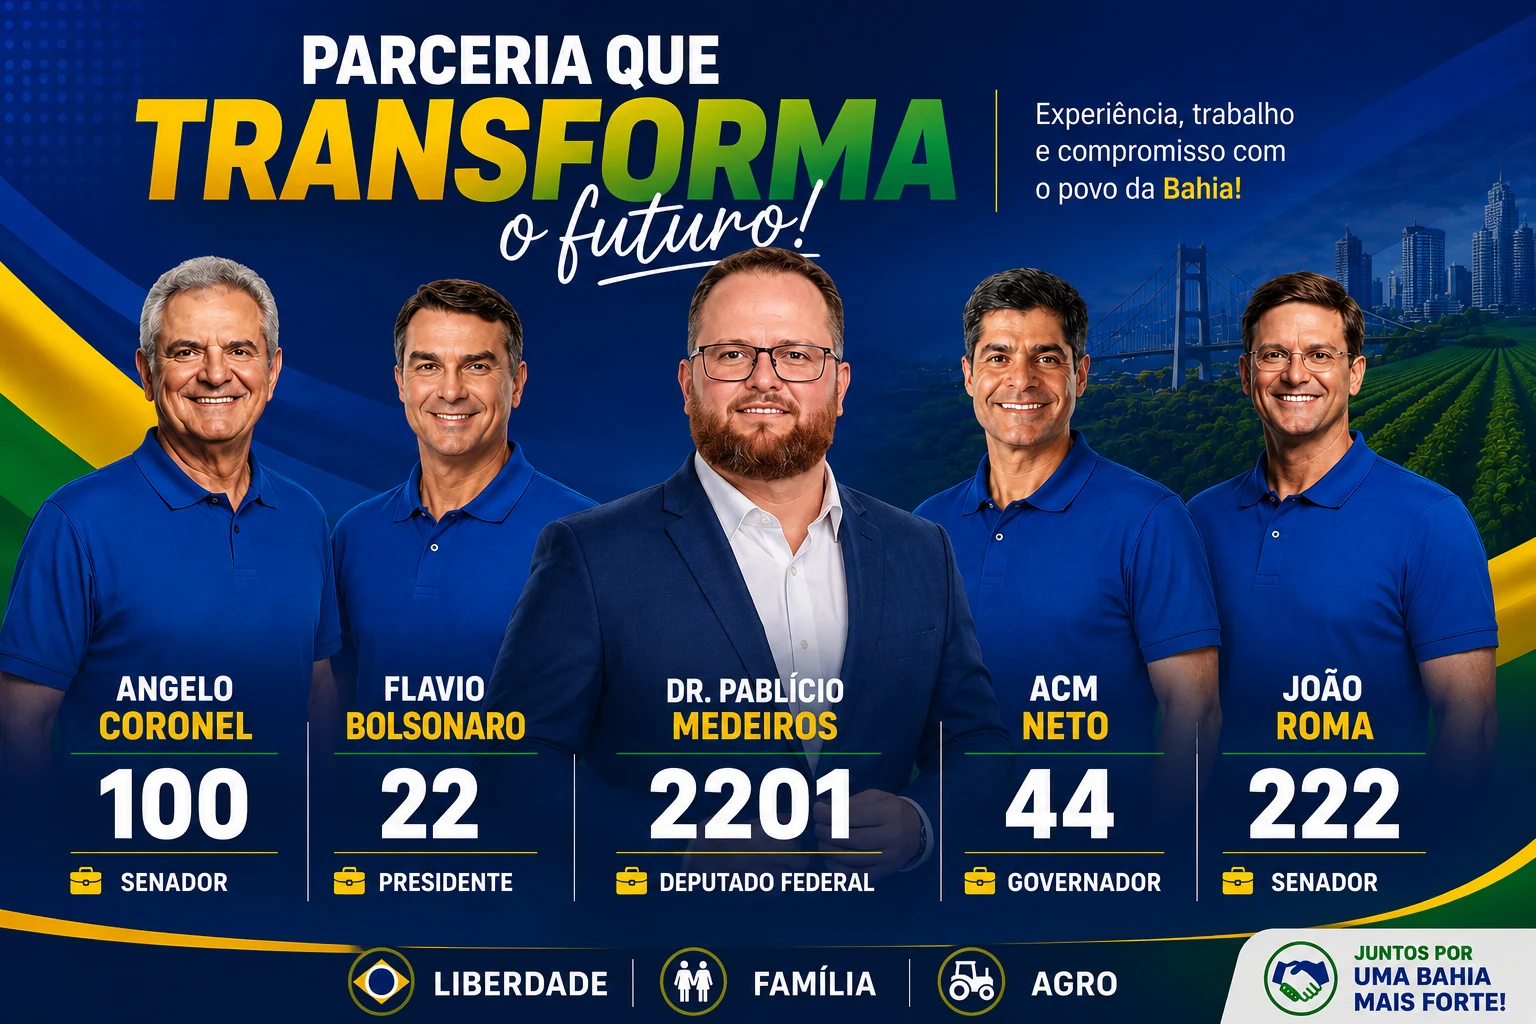
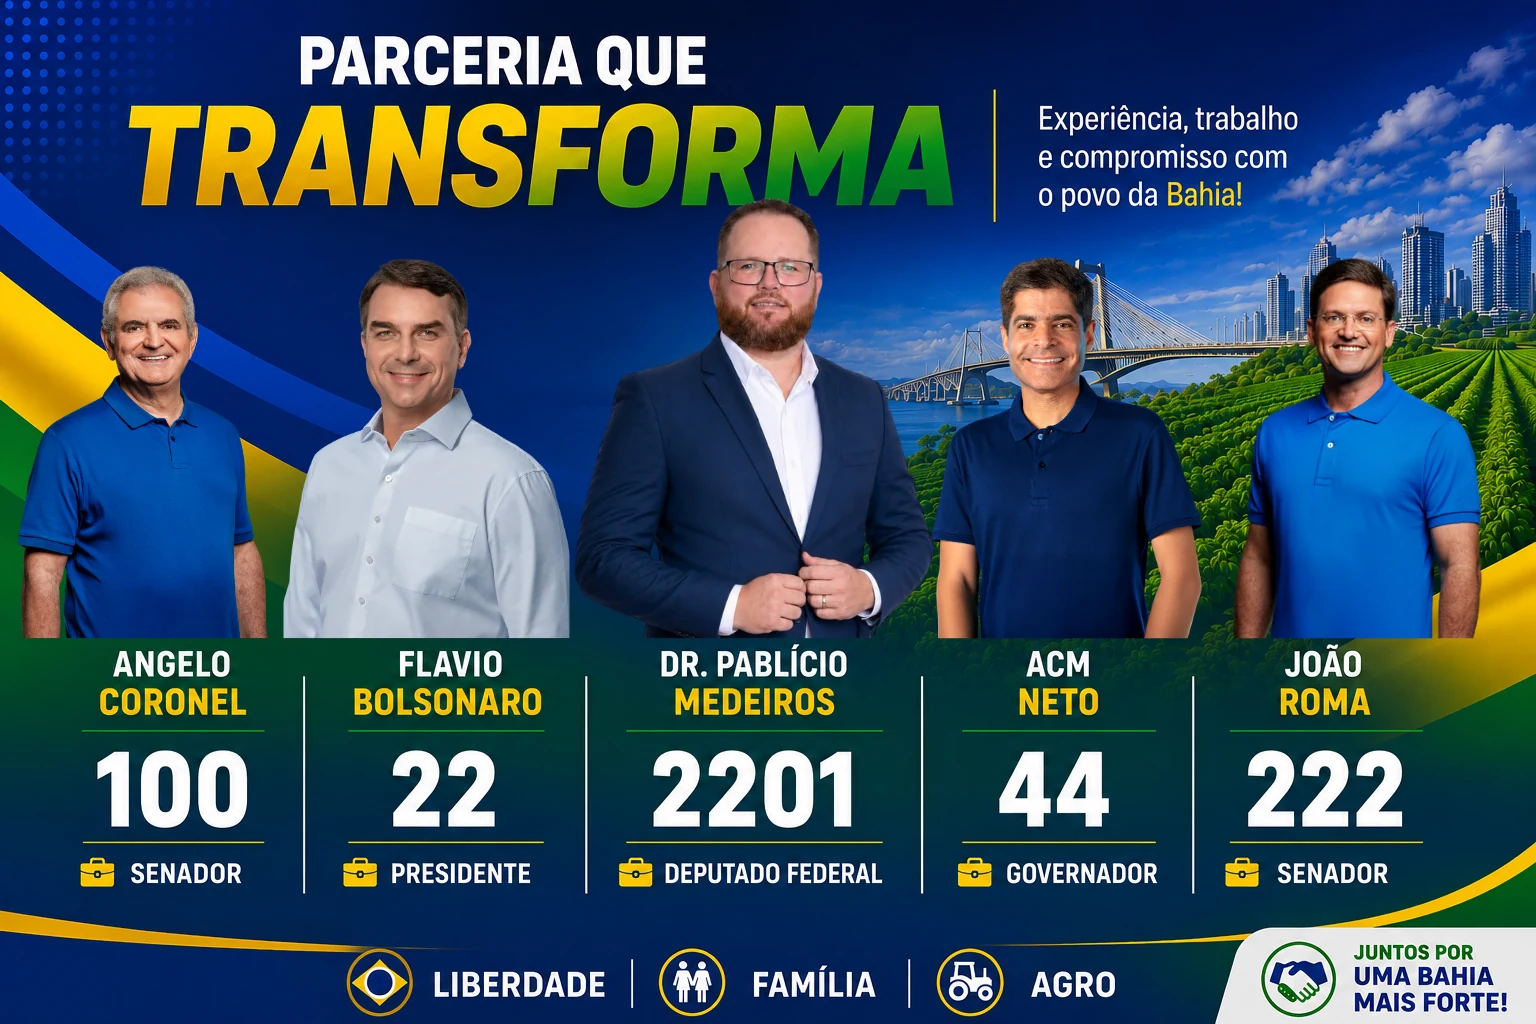
feat: redesign Fase 1 (Pablicio Presente) - nova nav, Hero reconstruido e paleta com tokens
- Header: navegacao por ancoras + menu mobile hamburger
- Hero: nova composicao e copy, painel verde solido atras da foto (corrige corte de cor),
  faixa "efeito bandeira" com verde predominante e azul/amarelo de destaque
- Footer: migrado para tokens de cor
- index.css: tokens de marca via @theme (Tailwind v4)
- content.ts: novos campos de copy do Hero
- Chapa: atualiza arte da parceria politica com nova versao fornecida pela campanha

diff --git a/src/components/Hero.tsx b/src/components/Hero.tsx
@@ -1,5 +1,4 @@
-import { ChevronDown } from "lucide-react";
-import { candidato, bio } from "../data/content";
+import { candidato, hero } from "../data/content";
 import { useLeadModal } from "../context/LeadModalContext";
 import fotoPablicio from "../assets/pablicio-cutout.webp";
 
@@ -8,22 +7,27 @@ export default function Hero() {
   const palavrasBandeira = candidato.bandeira.replace(" e ", ", ").split(", ");
 
   return (
-    <section className="relative bg-gradient-to-br from-[#02732a] via-[#025c22] to-[#022873] text-white pt-20 sm:pt-28 md:pt-32 pb-10 sm:pb-16 md:pb-20 overflow-hidden">
-      <div className="pointer-events-none absolute -top-24 -right-16 w-64 h-64 sm:w-96 sm:h-96 rounded-full bg-[#0339a6]/30 blur-3xl" />
-      <div className="pointer-events-none absolute bottom-0 -left-16 w-56 h-56 sm:w-80 sm:h-80 rounded-full bg-[#f2cb05]/20 blur-3xl" />
-      <div className="pointer-events-none absolute inset-0 bg-[radial-gradient(circle_at_1px_1px,rgba(255,255,255,0.06)_1px,transparent_0)] [background-size:28px_28px]" />
+    <section className="relative bg-gradient-to-br from-brand-green-700 via-brand-blue-700 to-brand-blue-900 text-white pt-20 sm:pt-28 md:pt-32 pb-10 sm:pb-16 md:pb-20 overflow-hidden">
+      <div className="pointer-events-none absolute -top-24 -right-16 w-64 h-64 sm:w-96 sm:h-96 rounded-full bg-brand-green-500/20 blur-3xl" />
 
       <div className="relative max-w-6xl mx-auto px-4 sm:px-5 grid md:grid-cols-[1.1fr_0.9fr] md:grid-rows-[auto_auto] gap-6 sm:gap-10 md:gap-x-12 items-center">
         <div className="order-1 md:order-1 md:col-start-1 md:row-start-1 md:self-end text-center md:text-left">
-          <p className="inline-flex items-center gap-2 uppercase tracking-widest text-[#f2cb05] font-semibold text-[11px] sm:text-sm mb-3 sm:mb-4 rounded-full border border-[#f2cb05]/30 bg-[#f2cb05]/10 px-3.5 py-1.5">
-            {candidato.cargo} · {candidato.partido} ({candidato.partidoSigla})
+          <p className="uppercase tracking-[0.2em] text-white/60 font-semibold text-[11px] sm:text-xs mb-2.5 sm:mb-3">
+            {candidato.nome}
           </p>
-          <h1 className="font-display font-extrabold text-[2rem] leading-[1.08] sm:text-5xl md:text-6xl sm:leading-[1.05] bg-gradient-to-r from-white via-white to-[#f2cb05]/90 bg-clip-text text-transparent">
-            {candidato.nome.toUpperCase()}
+          <p className="inline-flex items-center gap-2 uppercase tracking-widest text-brand-yellow-500 font-semibold text-[11px] sm:text-sm mb-3 sm:mb-4 rounded-full border border-brand-yellow-500/30 bg-brand-yellow-500/10 px-3.5 py-1.5">
+            {candidato.cargo} · {candidato.numero}
+          </p>
+          <h1 className="font-display font-extrabold text-[2rem] leading-[1.08] sm:text-5xl md:text-6xl sm:leading-[1.05] text-white">
+            {hero.headline}
           </h1>
         </div>
 
-        <div className="order-2 md:order-2 md:col-start-2 md:row-start-1 md:row-span-2 flex flex-col items-center">
+        <div className="order-2 md:order-2 md:col-start-2 md:row-start-1 md:row-span-2 relative flex flex-col items-center">
+          {/* painel verde sólido atrás de toda a figura — evita o corte de cor do fundo
+              da seção passando bem no meio da foto, independente do layout (mobile/desktop) */}
+          <div className="absolute inset-0 -mx-4 bg-[radial-gradient(ellipse_65%_78%_at_50%_40%,var(--color-brand-green-500)_0%,var(--color-brand-green-700)_50%,transparent_80%)]" />
+
           <div className="relative flex justify-center w-full">
             {/* lema em marca d'água atrás da figura, preenchendo o fundo vazio */}
             <div className="absolute inset-0 flex flex-col items-center justify-evenly py-4 pointer-events-none select-none">
@@ -36,21 +40,19 @@ export default function Hero() {
                 </span>
               ))}
             </div>
-            {/* glow colorido atrás da figura, no lugar da antiga caixa branca */}
-            <div className="absolute top-4 w-48 h-48 sm:w-72 sm:h-72 md:w-80 md:h-80 rounded-full bg-gradient-to-br from-[#f2cb05] via-[#03a63c] to-[#0339a6] opacity-50 blur-3xl" />
-            {/* sombra de "chão" sob os pés */}
-            <div className="absolute bottom-2 sm:bottom-4 w-32 sm:w-48 h-5 sm:h-7 bg-black/40 rounded-[50%] blur-lg" />
+            {/* sombra de "chão" sob os pés — reforçada para integrar melhor a figura ao fundo */}
+            <div className="absolute bottom-1 sm:bottom-3 w-36 sm:w-52 h-6 sm:h-8 bg-black/50 rounded-[50%] blur-xl" />
             <img
               src={fotoPablicio}
               alt={candidato.nome}
               width={577}
               height={786}
               fetchPriority="high"
-              className="relative w-48 sm:w-72 md:w-[22rem] h-auto object-contain drop-shadow-[0_25px_30px_rgba(0,0,0,0.45)]"
+              className="relative w-48 sm:w-72 md:w-[22rem] h-auto object-contain drop-shadow-[0_20px_18px_rgba(0,0,0,0.35)]"
             />
           </div>
           <div className="mt-1 sm:mt-2 text-center">
-            <div className="font-display font-extrabold text-4xl sm:text-5xl md:text-6xl text-[#f2cb05] drop-shadow-sm">
+            <div className="font-display font-extrabold text-4xl sm:text-5xl md:text-6xl text-brand-yellow-500 drop-shadow-sm">
               {candidato.numero}
             </div>
             <p className="text-white/70 text-xs sm:text-sm mt-1 tracking-wide">
@@ -60,36 +62,32 @@ export default function Hero() {
         </div>
 
         <div className="order-3 md:order-3 md:col-start-1 md:row-start-2 md:self-start text-center md:text-left">
-          <p className="text-base sm:text-xl font-semibold mb-2.5 sm:mb-3 text-white/95">
-            {bio.fraseAbertura}
-          </p>
-          <p className="text-sm sm:text-base text-white/75 mb-6 sm:mb-9 max-w-xl mx-auto md:mx-0">
-            {bio.aberturaTexto}
+          <p className="text-base sm:text-xl font-semibold mb-6 sm:mb-9 text-white/90 max-w-xl mx-auto md:mx-0">
+            {hero.apoio}
           </p>
 
           <div className="flex flex-col sm:flex-row gap-3 sm:gap-4 items-center">
+            <a
+              href="#propostas"
+              className="w-full sm:w-auto text-center bg-brand-yellow-500 text-brand-blue-900 font-display font-bold px-7 py-3.5 rounded-full hover:brightness-95 active:scale-[0.98] sm:hover:scale-[1.02] transition shadow-lg shadow-black/20"
+            >
+              {hero.ctaPrimario}
+            </a>
             <button
               onClick={openModal}
-              className="w-full sm:w-auto bg-[#f2cb05] text-[#022873] font-display font-bold px-7 py-3.5 rounded-full hover:brightness-95 active:scale-[0.98] sm:hover:scale-[1.02] transition shadow-lg shadow-black/20"
+              className="w-full sm:w-auto text-center border-2 border-white/40 text-white font-display font-bold px-7 py-3 rounded-full hover:bg-white/10 active:scale-[0.98] transition"
             >
-              Vote {candidato.numero}
+              {hero.ctaSecundario}
             </button>
-            <a
-              href="#video"
-              className="inline-flex items-center gap-1.5 text-white/90 font-semibold underline underline-offset-4 decoration-[#03a63c] hover:text-[#f2cb05] transition"
-            >
-              Veja o vídeo
-              <ChevronDown size={16} />
-            </a>
           </div>
         </div>
       </div>
 
       <div className="absolute inset-x-0 bottom-0 h-1.5 flex">
-        <span className="flex-1 bg-[#f2cb05]" />
-        <span className="flex-1 bg-[#03a63c]" />
-        <span className="flex-1 bg-[#02732a]" />
-        <span className="flex-1 bg-[#0339a6]" />
+        <span className="flex-[2] bg-brand-green-700" />
+        <span className="flex-[2] bg-brand-green-500" />
+        <span className="flex-1 bg-brand-blue-700" />
+        <span className="flex-1 bg-brand-yellow-500" />
       </div>
     </section>
   );

diff --git a/src/components/Header.tsx b/src/components/Header.tsx
@@ -1,31 +1,107 @@
+import { useState } from "react";
+import { Menu, X } from "lucide-react";
 import { candidato } from "../data/content";
 import { useLeadModal } from "../context/LeadModalContext";
 
+const LINKS = [
+  { label: "Início", href: "#" },
+  { label: "Sobre", href: "#sobre" },
+  { label: "Presença", href: "#presenca" },
+  { label: "Propostas", href: "#propostas" },
+  { label: "Participação", href: "#participar" },
+];
+
 export default function Header() {
   const { openModal } = useLeadModal();
+  const [menuAberto, setMenuAberto] = useState(false);
+
+  function aoClicarLink(e: React.MouseEvent<HTMLAnchorElement>, href: string) {
+    setMenuAberto(false);
+    if (href === "#") {
+      e.preventDefault();
+      window.scrollTo({ top: 0, behavior: "smooth" });
+    }
+  }
 
   return (
-    <header className="fixed top-0 left-0 right-0 z-50 bg-[#022873]/90 backdrop-blur-md border-b border-white/10">
+    <header className="fixed top-0 left-0 right-0 z-50 bg-brand-blue-900/90 backdrop-blur-md border-b border-white/10">
       <div className="h-[3px] flex">
-        <span className="flex-1 bg-[#f2cb05]" />
-        <span className="flex-1 bg-[#03a63c]" />
-        <span className="flex-1 bg-[#0339a6]" />
-        <span className="flex-1 bg-[#02732a]" />
+        <span className="flex-[2] bg-brand-green-700" />
+        <span className="flex-[2] bg-brand-green-500" />
+        <span className="flex-1 bg-brand-blue-700" />
+        <span className="flex-1 bg-brand-yellow-500" />
       </div>
       <div className="max-w-6xl mx-auto flex items-center justify-between gap-3 px-4 sm:px-5 py-2.5 sm:py-3 text-white">
-        <span className="font-display font-extrabold tracking-tight text-sm sm:text-lg truncate">
-          {candidato.nome.toUpperCase()}
-        </span>
-        <button
-          onClick={openModal}
-          className="shrink-0 flex items-center gap-1.5 sm:gap-2 bg-[#f2cb05] text-[#022873] font-display font-bold text-xs sm:text-sm px-3.5 sm:px-4 py-1.5 sm:py-2 rounded-full hover:brightness-95 active:scale-95 transition shadow-md shadow-black/10"
+        <a
+          href="#"
+          onClick={(e) => aoClicarLink(e, "#")}
+          className="font-display font-extrabold tracking-tight text-sm sm:text-lg truncate"
         >
-          Vote
-          <span className="bg-[#022873] text-[#f2cb05] rounded-full px-2 py-0.5 text-[11px] sm:text-xs">
+          {candidato.nome.toUpperCase()}
+        </a>
+
+        <nav className="hidden md:flex items-center gap-6 text-sm font-semibold text-white/85">
+          {LINKS.map((link) => (
+            <a
+              key={link.label}
+              href={link.href}
+              onClick={(e) => aoClicarLink(e, link.href)}
+              className="hover:text-brand-yellow-500 transition"
+            >
+              {link.label}
+            </a>
+          ))}
+        </nav>
+
+        <div className="flex items-center gap-2">
+          <button
+            onClick={openModal}
+            className="hidden sm:flex shrink-0 items-center gap-1.5 sm:gap-2 bg-brand-yellow-500 text-brand-blue-900 font-display font-bold text-xs sm:text-sm px-3.5 sm:px-4 py-1.5 sm:py-2 rounded-full hover:brightness-95 active:scale-95 transition shadow-md shadow-black/10"
+          >
+            Vote
+            <span className="bg-brand-blue-900 text-brand-yellow-500 rounded-full px-2 py-0.5 text-[11px] sm:text-xs">
+              {candidato.numero}
+            </span>
+          </button>
+
+          <button
+            onClick={openModal}
+            className="sm:hidden shrink-0 bg-brand-yellow-500 text-brand-blue-900 font-display font-bold text-xs px-3 py-1.5 rounded-full active:scale-95 transition"
+          >
             {candidato.numero}
-          </span>
-        </button>
+          </button>
+
+          <button
+            onClick={() => setMenuAberto((v) => !v)}
+            aria-label={menuAberto ? "Fechar menu" : "Abrir menu"}
+            aria-expanded={menuAberto}
+            className="md:hidden shrink-0 w-9 h-9 flex items-center justify-center rounded-full bg-white/10 hover:bg-white/20 transition"
+          >
+            {menuAberto ? <X size={18} /> : <Menu size={18} />}
+          </button>
+        </div>
       </div>
+
+      {menuAberto && (
+        <>
+          <div
+            className="md:hidden fixed inset-0 top-[52px] bg-black/40"
+            onClick={() => setMenuAberto(false)}
+          />
+          <nav className="md:hidden relative bg-brand-blue-900 border-t border-white/10 px-4 sm:px-5 py-4 flex flex-col gap-1">
+            {LINKS.map((link) => (
+              <a
+                key={link.label}
+                href={link.href}
+                onClick={(e) => aoClicarLink(e, link.href)}
+                className="text-white/90 font-semibold py-2.5 border-b border-white/10 last:border-0"
+              >
+                {link.label}
+              </a>
+            ))}
+          </nav>
+        </>
+      )}
     </header>
   );
 }

diff --git a/src/components/Footer.tsx b/src/components/Footer.tsx
@@ -21,13 +21,12 @@ function FacebookIcon() {
 
 export default function Footer() {
   return (
-    <footer className="bg-[#0e1b2a] text-white/70 pb-8 sm:pb-10 text-sm">
+    <footer className="bg-brand-ink text-white/70 pb-8 sm:pb-10 text-sm">
       <div className="h-1 flex mb-8 sm:mb-10">
-        <span className="flex-1 bg-[#f2cb05]" />
-        <span className="flex-1 bg-[#03a63c]" />
-        <span className="flex-1 bg-[#02732a]" />
-        <span className="flex-1 bg-[#0339a6]" />
-        <span className="flex-1 bg-[#022873]" />
+        <span className="flex-[2] bg-brand-green-700" />
+        <span className="flex-[2] bg-brand-green-500" />
+        <span className="flex-1 bg-brand-blue-700" />
+        <span className="flex-1 bg-brand-yellow-500" />
       </div>
       <div className="max-w-4xl mx-auto px-4 sm:px-5 text-center space-y-3 break-words">
         <p className="font-display font-bold text-white text-base">
@@ -41,7 +40,7 @@ export default function Footer() {
             target="_blank"
             rel="noopener noreferrer"
             aria-label="Instagram"
-            className="w-9 h-9 rounded-full bg-white/5 flex items-center justify-center hover:bg-[#0339a6] hover:text-white transition"
+            className="w-9 h-9 rounded-full bg-white/5 flex items-center justify-center hover:bg-brand-blue-700 hover:text-white transition"
           >
             <InstagramIcon />
           </a>
@@ -50,7 +49,7 @@ export default function Footer() {
             target="_blank"
             rel="noopener noreferrer"
             aria-label="Facebook"
-            className="w-9 h-9 rounded-full bg-white/5 flex items-center justify-center hover:bg-[#0339a6] hover:text-white transition"
+            className="w-9 h-9 rounded-full bg-white/5 flex items-center justify-center hover:bg-brand-blue-700 hover:text-white transition"
           >
             <FacebookIcon />
           </a>
@@ -59,7 +58,7 @@ export default function Footer() {
             target="_blank"
             rel="noopener noreferrer"
             aria-label="WhatsApp"
-            className="w-9 h-9 rounded-full bg-white/5 flex items-center justify-center hover:bg-[#02732a] hover:text-white transition"
+            className="w-9 h-9 rounded-full bg-white/5 flex items-center justify-center hover:bg-brand-green-700 hover:text-white transition"
           >
             <MessageCircle size={18} />
           </a>

diff --git a/src/components/Articulacao.tsx b/src/components/Articulacao.tsx
@@ -76,7 +76,7 @@ export default function Articulacao() {
   if (galeria.length === 0) return null;
 
   return (
-    <section className="bg-[#f6f8fa] py-12 sm:py-16 md:py-24 overflow-hidden">
+    <section id="presenca" className="bg-[#f6f8fa] py-12 sm:py-16 md:py-24 overflow-hidden scroll-mt-16">
       <div className="max-w-5xl mx-auto px-4 sm:px-5">
         <p className="uppercase tracking-widest text-[#0339a6] font-semibold text-xs sm:text-sm mb-3 text-center">
           <span className="rounded-full bg-[#0339a6]/10 px-3.5 sm:px-4 py-1.5">

diff --git a/src/components/Bio.tsx b/src/components/Bio.tsx
@@ -2,7 +2,7 @@ import { bio, candidato } from "../data/content";
 
 export default function Bio() {
   return (
-    <section className="bg-[#f6f8fa] py-12 sm:py-16 md:py-24">
+    <section id="sobre" className="bg-[#f6f8fa] py-12 sm:py-16 md:py-24 scroll-mt-16">
       <div className="max-w-3xl mx-auto px-4 sm:px-5">
         <p className="uppercase tracking-widest text-[#0339a6] font-semibold text-xs sm:text-sm mb-3 sm:mb-4 text-center">
           <span className="rounded-full bg-[#0339a6]/10 px-3.5 sm:px-4 py-1.5">Quem é ele</span>

diff --git a/src/index.css b/src/index.css
@@ -1,6 +1,16 @@
 @import url("https://fonts.googleapis.com/css2?family=Archivo:wght@600;700;800&family=Inter:wght@400;500;600;700&display=swap");
 @import "tailwindcss";
 
+@theme {
+  --color-brand-blue-900: #022873;
+  --color-brand-blue-700: #0339a6;
+  --color-brand-green-700: #02732a;
+  --color-brand-green-500: #03a63c;
+  --color-brand-yellow-500: #f2cb05;
+  --color-brand-ink: #0e1b2a;
+  --color-brand-bg: #f6f8fa;
+}
+
 :root {
   --ink: #0e1b2a;
   --bg: #f6f8fa;

diff --git a/src/data/content.ts b/src/data/content.ts
@@ -17,6 +17,13 @@ export const candidato = {
 // mostrar o placeholder "vídeo em breve".
 export const videoUrl = "";
 
+export const hero = {
+  headline: "A Bahia precisa de quem esteja presente.",
+  apoio: "Trabalho, diálogo e representação para a Bahia.",
+  ctaPrimario: "Conheça o projeto",
+  ctaSecundario: "Faça parte",
+};
+
 export const contato = {
   whatsapp: "5571987822591",
   whatsappExibicao: "(71) 98782-2591",
